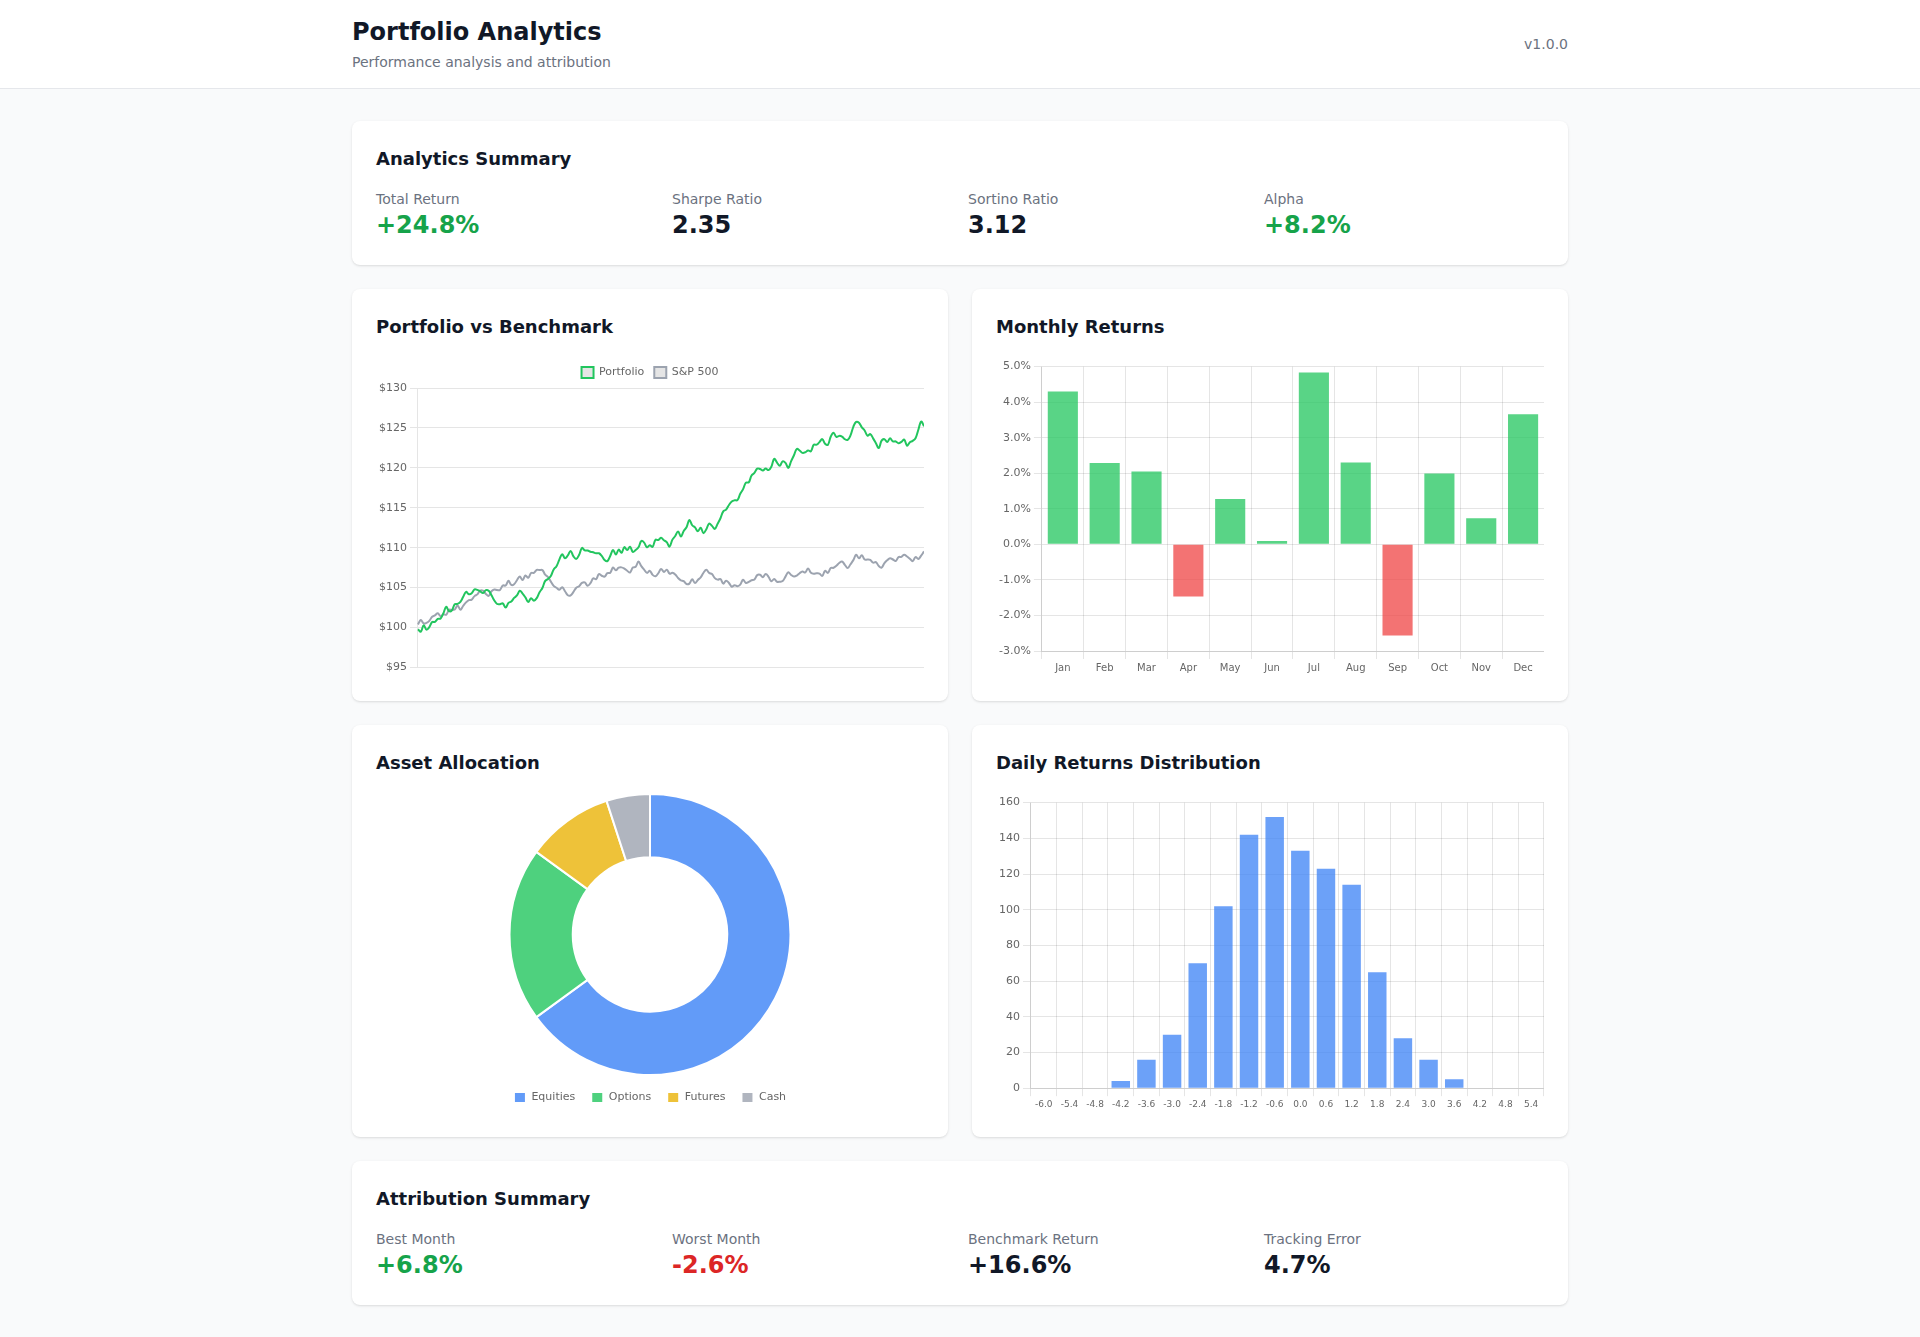
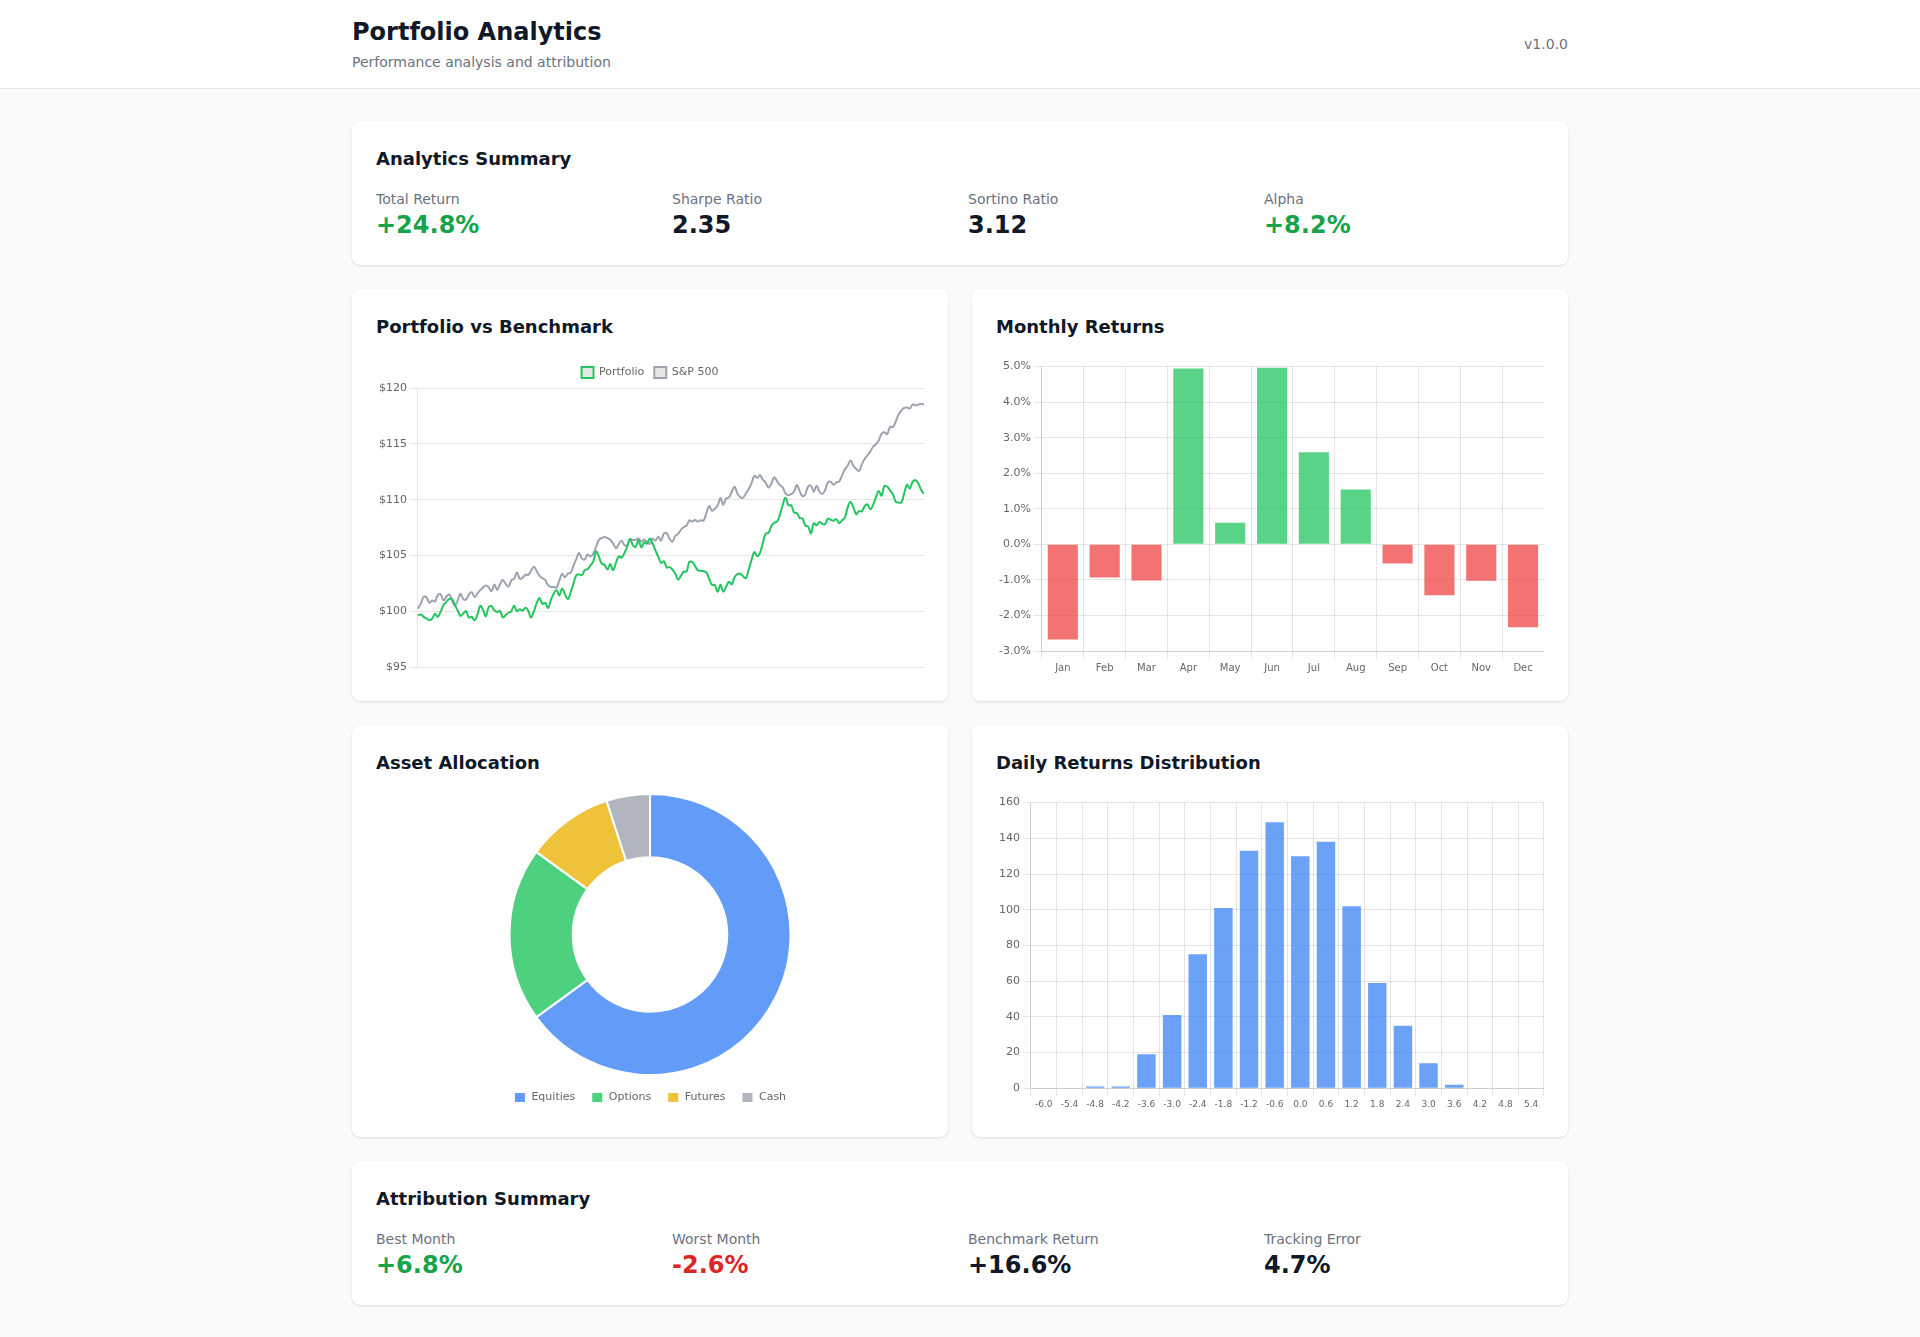
Updated README and strategy detail screenshot with improved layout

diff --git a/README.md b/README.md
@@ -1,284 +1,109 @@
-# 🎯 Quantitative Finance Portfolio
+# Quantitative Trading & Risk Platform (C++ / .NET)
 
-**Senior Quantitative Developer/Engineer**
+Quantitative software engineering project focused on building an **execution tracking, portfolio aggregation and real-time risk monitoring platform**.
 
-> **Note:** This is a showcase repository. Full codebases are private and available upon request under NDA.
+The goal of this repository is to showcase how I design and structure systems used in front-office environments:
+trades, positions, P&L and risk — all evolving consistently in real time.
 
----
-
-## 👨💻 About Me
-
-Senior Quantitative Developer specializing in high-performance trading systems, quantitative pricing models, and institutional-grade risk management. Expert in C++20, Python, and real-time financial systems architecture.
-
-**Core Expertise:**
-- Algorithmic Trading Platforms
-- Quantitative Pricing & Valuation
-- Real-time Risk Management
-- High-Performance Computing
-- Message-Oriented Architectures
+> Full implementations are private and available upon request under NDA.
 
 ---
 
-## 🚀 Active Projects
+## 📊 Dashboard Overview
 
-### 1. Institutional Trading Platform (C++20)
-**Status:** Active Development | **Scale:** Large-scale production system
+![Dashboard](media/screenshots/dashboard-overview.png)
 
-High-performance algorithmic trading platform with real-time monitoring, multi-strategy execution, and institutional-grade risk management.
+## 📈 Strategy Detail
 
-**Key Technical Achievements:**
-- ✅ **Production-ready** - Modern C++20 codebase with zero technical debt
-- ✅ **Scalable architecture** - Modular design supporting multiple execution strategies
-- ✅ **Message-driven** - Distributed system with reliable messaging infrastructure
-- ✅ **Type-safe** - Compile-time guarantees and runtime validation
-- ✅ **Real-time monitoring** - Desktop application for system oversight
+![Strategy](media/screenshots/strategy-detail.png)
 
-**Technology Stack:**
-```
-Backend:    C++20, CMake, Message Brokers, PostgreSQL, TimescaleDB
-Frontend:   React, TypeScript, Electron
-Testing:    Comprehensive unit, integration, and end-to-end tests
-```
+## ⚠️ Risk Monitoring
 
-**System Capabilities:**
-- Modular component architecture
-- Fast compilation and build times
-- Thread-safe concurrent execution
-- Comprehensive error handling
+![Risk](media/screenshots/risk-dashboard.png)
 
-**Quantitative Focus:**
-- Strategy backtesting framework
-- Performance analytics (Sharpe, Sortino, max drawdown)
-- Real-time risk calculations (concentration, correlation, drawdown)
-- Portfolio value aggregation
-- Position reconciliation
+## 📉 Portfolio Analytics
 
-[View detailed architecture →](docs/TRADING-PLATFORM.md)
+![Analytics](media/screenshots/portfolio-analytics.png)
 
 ---
 
-### 2. Quantitative Pricing Library (Python)
-**Status:** Active Development | **Focus:** Multi-Asset Derivatives Pricing
+## 🧠 What This Project Demonstrates
 
-Python library for pricing and sensitivity analysis of financial instruments using quantitative models.
+This project focuses on **engineering aspects of trading systems**, not UI or product features.
 
-**Key Features:**
-- ✅ **Extensible design** - Easy to add new models and instruments
-- ✅ **Scenario analysis** - Spot, vol, and interest rate shifts
-- ✅ **Greek calculations** - Delta, Gamma, Vega, Theta, Rho
-- ✅ **Multi-asset support** - Equities, FX, commodities
-- ✅ **Clean architecture** - Separation of calculation logic and data structures
+Key areas:
 
-**Quantitative Models:**
-- Black-Scholes-Merton for European options
-- Monte Carlo simulation (planned)
-- Finite difference methods (planned)
-- Local volatility models (planned)
-
-**Technology Stack:**
-```
-Core:       Python 3.11+, NumPy, SciPy
-Testing:    pytest, property-based testing
-```
-
-**Integration Roadmap:**
-- Standalone pricing library (current)
-- Integration with trading platform (planned)
-- Real-time pricing engine (planned)
-
-[View pricing library details →](docs/PRICING-LIBRARY.md)
+* Real-time aggregation of portfolio and strategy state
+* Consistent handling of trades, positions and P&L
+* Risk monitoring (drawdown, exposure, concentration)
+* Deterministic system behaviour under concurrent updates
+* Clear separation between calculation logic and orchestration
 
 ---
 
-## 📊 Project Scale
+## ⚙️ Core Capabilities
 
-### Trading Platform
-- Large-scale C++20 codebase
-- Modular architecture with clear separation of concerns
-- Fast compilation times
-- Comprehensive test coverage
-- Production-ready code quality
-
-### Pricing Library
-- Extensible Python library
-- Multiple asset classes supported
-- Full Greek calculations
-- Growing model library
+* Multi-strategy portfolio tracking
+* Trade lifecycle and position reconciliation
+* Real-time P&L and performance metrics
+* Risk calculations (drawdown, exposure, limits)
+* Scenario-based portfolio analysis
 
 ---
 
-## 🏗️ Development Philosophy
+## 🔄 Example Workflow
 
-### Core Principles
-1. **Production Quality** - No technical debt, production-ready from day one
-2. **Type Safety** - Compile-time guarantees and runtime validation
-3. **Clean Architecture** - Clear separation of concerns
-4. **Performance** - Optimized for low-latency execution
-5. **Maintainability** - Well-structured, documented code
+The platform is designed around a consistent flow from execution to portfolio state.
 
-### Engineering Approach
-- Modern C++ best practices
-- Established design patterns
-- Comprehensive testing strategy
-- Continuous integration
-- Code review and quality standards
+For example:
 
----
+* A strategy generates an order
+* The order is executed and produces trades
+* Trades update positions and portfolio state
+* P&L and exposure are recalculated in real time
+* Risk metrics (drawdown, concentration, limits) are updated immediately
+* The dashboard reflects the updated system state
 
-## 🎯 Quantitative Capabilities
-
-### Trading Platform
-- **Strategy Development**
-  - Mean reversion strategies
-  - Momentum/trend following
-  - Statistical arbitrage
-  - Multi-strategy portfolio management
-
-- **Risk Management**
-  - Real-time risk calculations
-  - Position limits and exposure controls
-  - Drawdown monitoring
-  - Concentration risk (asset, currency, strategy)
-  - Correlation analysis
-
-- **Performance Analytics**
-  - Sharpe ratio, Sortino ratio
-  - Maximum drawdown
-  - Win/loss ratios
-  - Trade blotter and reconciliation
-
-- **Data Integration**
-  - Real-time market data feeds
-  - FX rates (ECB API)
-  - Asset prices (multiple sources)
-  - Historical data storage (TimescaleDB)
-
-### Pricing Library
-- **Valuation**
-  - European options (Black-Scholes)
-  - Scenario analysis
-  - Sensitivity calculations
-
-- **Greeks**
-  - Delta (spot sensitivity)
-  - Gamma (delta sensitivity)
-  - Vega (volatility sensitivity)
-  - Theta (time decay)
-  - Rho (interest rate sensitivity)
-
-- **Extensibility**
-  - Visitor pattern for new calculations
-  - Builder pattern for complex scenarios
-  - Easy addition of new models
+The key requirement is that all these steps remain **consistent and deterministic**, even under concurrent updates.
 
 ---
 
-## 🔧 Technical Highlights
+## 🏗️ Engineering Focus
 
-### C++ Expertise
-- Modern C++20 features and best practices
-- Template metaprogramming and generic programming
-- Performance optimization techniques
-- Resource management and memory safety
-- Low-latency system design
+The implementation emphasizes:
 
-### Python Expertise
-- Object-oriented and functional programming
-- Type-safe code with static analysis
-- Numerical computing and scientific libraries
-- Comprehensive testing strategies
+* **Correctness over features**
+* **Deterministic state handling**
+* **Thread-safe execution and aggregation**
+* **Robust error handling and recovery**
+* **Clear system boundaries and responsibilities**
 
-### Systems Design
-- Message-oriented architecture
-- Multiple serialization formats
-- Time-series and relational databases
-- Inter-process communication
-- Distributed system design
+This reflects the same design concerns encountered in production trading and risk systems.
 
 ---
 
-## 📈 Development Status
+## 🧮 Quantitative Component
 
-### Trading Platform
-**Current Status:** Active development with production-ready core components
+A separate pricing library (Python) complements the platform:
 
-**Completed:**
-- Core platform architecture
-- Real-time monitoring dashboard
-- Multi-strategy support framework
+* Black-Scholes pricing
+* Greek calculations (Delta, Gamma, Vega, Theta, Rho)
+* Scenario analysis
 
-**In Progress:**
-- System integration and testing
-- Additional trading strategies
-- Advanced risk management features
-
-**Planned:**
-- Mobile monitoring application
-- Exchange connectivity
-- Enhanced analytics
-
-### Pricing Library
-**Current Status:** Functional library with core models
-
-**Completed:**
-- Black-Scholes pricing model
-- Greek calculations
-- Scenario analysis framework
-
-**Planned:**
-- Advanced pricing models
-- Integration with trading platform
-- Real-time pricing engine
+The intent is to integrate pricing and execution/risk into a single consistent framework.
 
 ---
 
-## 📚 Documentation
+## 📚 Additional Notes
 
-- [Trading Platform Overview](docs/TRADING-PLATFORM.md)
-- [Pricing Library Overview](docs/PRICING-LIBRARY.md)
-
----
-
-## 🎥 Media
-
-- [Screenshots](media/screenshots/) - Dashboard overview with sample data
-- Demo Videos *(Coming soon)*
-
----
-
-## 💼 Professional Profile
-
-**Target Roles:**
-- Senior Quantitative Developer
-- Quantitative Engineer
-- Algorithmic Trading Developer
-- Risk Management Engineer
-- High-Performance Computing Engineer
-
-**Key Strengths:**
-- Production-grade code quality
-- Deep understanding of quantitative finance
-- High-performance system design
-- Real-time data processing
-- Institutional-grade risk management
+* This is a **portfolio project**, not a production trading system
+* No real trading or financial advice functionality is provided
+* Architecture details are intentionally kept at a high level
 
 ---
 
 ## 📞 Contact
 
-Available for discussion about:
-- Architecture decisions and trade-offs
-- Implementation details and technical challenges
-- Quantitative model implementation
-- Performance optimization strategies
-- Code review and best practices
+For discussions on system design, quantitative models, or implementation details:
 
-**Note:** Full source code available upon request under NDA for serious opportunities.
-
----
-
-## 📄 License
-
-This showcase repository is for portfolio purposes only. All code samples are simplified examples and do not represent the complete private implementations.
-
-© 2026 - All Rights Reserved
+Full code and deeper technical walkthroughs are available upon request.